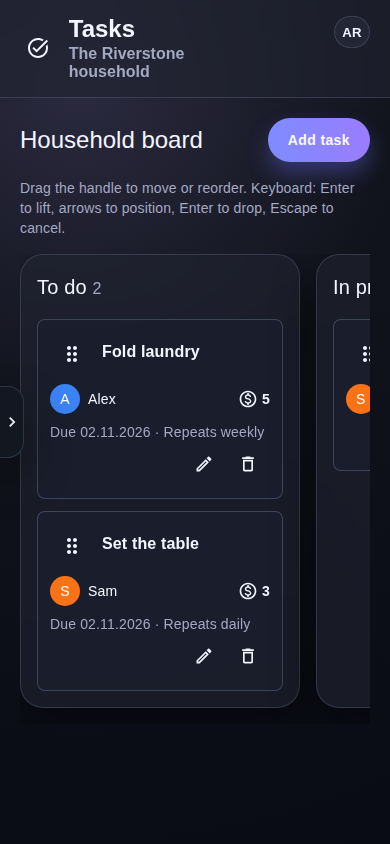
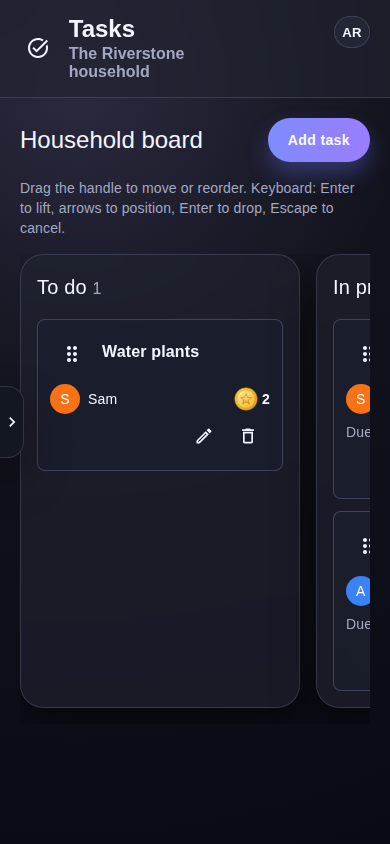
Use uploaded family coin artwork for task rewards

diff --git a/frontend/src/pages/TasksPage.stories.tsx b/frontend/src/pages/TasksPage.stories.tsx
@@ -130,6 +130,10 @@ export const TasksBoard: Story = {
     const reward = within(canvas.getByRole("article", { name: "Fold laundry" })).getByRole("img", { name: "5 coins" });
     await expect(reward).toHaveTextContent("5");
     await expect(reward).not.toHaveTextContent("coins");
+    const coin = reward.querySelector("img")!;
+    await expect(coin).toHaveAttribute("src", `${import.meta.env.BASE_URL}family-coin.svg`);
+    await expect(coin).toHaveAttribute("alt", "");
+    await waitFor(() => expect(coin.naturalWidth).toBeGreaterThan(0));
     await expect(canvas.getByRole("article", { name: "Fold laundry" })).toHaveTextContent("Alex");
     await expect(canvas.getByRole("article", { name: "Fold laundry" })).toHaveTextContent("Repeats weekly");
     await expect(canvas.getByRole("article", { name: "Fold laundry" })).toHaveTextContent("Due 02.11.2026");
@@ -298,7 +302,9 @@ export const TasksPointerMoveReorderTouchCancel: Story = {
       await expect(preview).toBeVisible();
       await expect(preview).toHaveTextContent("Water plants");
       await expect(preview).toHaveTextContent("Sam");
-      await expect(preview.querySelector("svg[data-testid='MonetizationOnOutlinedIcon']")).not.toBeNull();
+      const previewCoin = preview.querySelector<HTMLImageElement>("img[src$='family-coin.svg']")!;
+      await expect(previewCoin).not.toBeNull();
+      await waitFor(() => expect(previewCoin.naturalWidth).toBeGreaterThan(0));
       await expect(preview).toHaveAttribute("aria-hidden", "true");
       await expect(getComputedStyle(preview).pointerEvents).toBe("none");
       await expect(canvas.getAllByRole("article", { name: "Water plants" })).toHaveLength(1);

diff --git a/frontend/src/features/tasks/KanbanBoard.tsx b/frontend/src/features/tasks/KanbanBoard.tsx
@@ -4,7 +4,6 @@ import { Avatar, Box, IconButton, Stack, Typography } from "@mui/material";
 import DragIndicatorIcon from "@mui/icons-material/DragIndicator";
 import EditOutlinedIcon from "@mui/icons-material/EditOutlined";
 import DeleteOutlineIcon from "@mui/icons-material/DeleteOutlined";
-import MonetizationOnOutlinedIcon from "@mui/icons-material/MonetizationOnOutlined";
 import type { FamilyMember } from "../../types/family";
 import { normalizeMemberColor } from "../../shared/family/memberAvatarColors";
 import dayjs from "dayjs";
@@ -39,7 +38,7 @@ function TaskCardContent({ task, member, handle, actions }: {
       </Avatar>
       <Typography variant="body2">{member?.firstName ?? "Former member"}</Typography>
       <Stack direction="row" role="img" aria-label={`${task.coins} coins`} sx={{ ml: "auto", alignItems: "center", gap: 0.5 }}>
-        <MonetizationOnOutlinedIcon fontSize="small" />
+        <Box component="img" src={`${import.meta.env.BASE_URL}family-coin.svg`} alt="" width={24} height={24} sx={{ display: "block", objectFit: "contain" }} />
         <Typography variant="body2" sx={{ fontWeight: 700 }}>{task.coins}</Typography>
       </Stack>
     </Stack>

diff --git a/frontend/.storybook/main.ts b/frontend/.storybook/main.ts
@@ -2,6 +2,7 @@ import type { StorybookConfig } from "@storybook/react-vite";
 
 const config: StorybookConfig = {
   stories: ["../src/**/*.stories.@(js|jsx|mjs|ts|tsx)"],
+  staticDirs: ["../public"],
   addons: [
     "@storybook/addon-docs",
     "@storybook/addon-a11y",

diff --git a/CHANGELOG.md b/CHANGELOG.md
@@ -2,6 +2,8 @@
 
 ## Unreleased
 
+- Task cards and floating drag previews now display the uploaded `frontend/public/family-coin.svg` artwork, retaining accessible coin-amount labels. Updated screenshots: `docs/screenshots/tasks-kanban.png`, `docs/screenshots/tasks-kanban-mobile.png`, and `docs/screenshots/tasks-kanban-drag.png`.
+
 - Added a floating task-card preview that follows mouse/touch dragging, with a highlighted destination swimlane and insertion marker. Card details share the normal task-card rendering; cancelling/dropping removes the preview. Updated screenshot: `docs/screenshots/tasks-kanban-drag.png`.
 
 - Centralized shared date/time picker popup colors, including calendar text, controls, selection, and an opaque theme surface for dark mode. Added light/dark desktop and mobile date-picker regression coverage. Updated screenshots: `docs/screenshots/date-picker-dark.png` and `docs/screenshots/date-picker-dark-mobile.png`.
